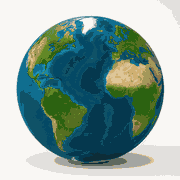
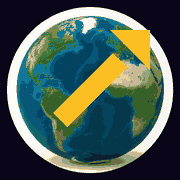
fix: restore infrastructure monitoring in FinancialCommand and sync package versions

diff --git a/src/components/Dashboard/FinancialCommand.tsx b/src/components/Dashboard/FinancialCommand.tsx
@@ -2,8 +2,9 @@
 
 import React from 'react';
 import { motion } from 'framer-motion';
-import { ShoppingBasket as Bucket, ShieldCheck, ArrowUpRight, TrendingUp, Calendar, CreditCard, AppWindow } from 'lucide-react';
+import { ShoppingBasket as Bucket, ShieldCheck, ArrowUpRight, TrendingUp, Calendar, CreditCard, AppWindow, Cpu, Zap, Activity } from 'lucide-react';
 import { cn } from '@/lib/utils';
+import { infrastructureService, InfrastructureBalance } from '@/lib/api-service';
 
 interface FinancialCommandProps {
   withholdableEarnings?: number;
@@ -18,6 +19,16 @@ export function FinancialCommand({
   growthScore = 92,
   businessId = "1"
 }: Partial<FinancialCommandProps>) {
+  const [infraBalances, setInfraBalances] = React.useState<InfrastructureBalance[]>([]);
+  
+  React.useEffect(() => {
+    const loadInfra = async () => {
+      const bals = await infrastructureService.getBalances();
+      setInfraBalances(bals);
+    };
+    loadInfra();
+  }, []);
+
   const formatCurrency = (cents: number) => {
     return `$${(cents / 100).toLocaleString(undefined, { minimumFractionDigits: 2 })}`;
   };
@@ -67,6 +78,38 @@ export function FinancialCommand({
             </div>
           </div>
         </div>
+
+        {/* Infrastructure Monitor */}
+        {infraBalances.length > 0 && (
+          <div className="space-y-4">
+            <div className="flex items-center gap-2 text-primary font-black text-[10px] uppercase tracking-widest">
+              <Cpu className="w-3 h-3" />
+              System Infrastructure Balances
+            </div>
+            <div className="grid grid-cols-2 md:grid-cols-4 gap-4">
+              {infraBalances.map((item, i) => (
+                <div key={i} className="p-4 bg-theme-background border border-theme rounded-2xl space-y-2">
+                  <div className="flex items-center justify-between">
+                    <span className="text-[8px] font-black uppercase text-muted-foreground">{item.platform}</span>
+                    {item.status === 'low' && <Zap className="w-3 h-3 text-amber-500 animate-pulse" />}
+                  </div>
+                  <p className={cn(
+                    "text-lg font-black tracking-tighter italic",
+                    item.status === 'low' ? "text-amber-500" : "text-foreground"
+                  )}>
+                    ${item.balance.toFixed(2)}
+                  </p>
+                  <div className="w-full bg-slate-800 h-1 rounded-full overflow-hidden">
+                    <div 
+                      className={cn("h-full", item.status === 'low' ? "bg-amber-500" : "bg-primary")} 
+                      style={{ width: `${Math.min(100, (item.balance / 50) * 100)}%` }} 
+                    />
+                  </div>
+                </div>
+              ))}
+            </div>
+          </div>
+        )}
 
         {/* Breakdown Sections */}
         <div className="grid grid-cols-1 md:grid-cols-2 gap-10">

diff --git a/src/lib/api-service.ts b/src/lib/api-service.ts
@@ -211,6 +211,13 @@ export const socialProofService = {
   }
 };
 
+export interface InfrastructureBalance {
+  platform: string;
+  balance: number;
+  currency: string;
+  status: 'active' | 'low' | 'depleted' | 'unknown';
+}
+
 export const discoveryService = {
   async getPendingResults(): Promise<DiscoveryResult[]> {
     try {
@@ -231,6 +238,18 @@ export const discoveryService = {
   },
   async approveResult(id: string): Promise<boolean> { return true; },
   async rejectResult(id: string): Promise<boolean> { return true; }
+};
+
+export const infrastructureService = {
+  async getBalances(): Promise<InfrastructureBalance[]> {
+    try {
+      const res = await fetch(`${API_URL}/api/revenue/infrastructure`, { headers: HEADERS });
+      if (res.ok) return await res.json();
+    } catch (e) {
+      console.error('Failed to fetch infrastructure balances', e);
+    }
+    return [];
+  }
 };
 
 export interface DesignTask {

diff --git a/src/app/layout.tsx b/src/app/layout.tsx
@@ -32,12 +32,12 @@ export default function RootLayout({
           html, body { background-color: #0a0519 !important; }
         `}</style>
         <link rel="canonical" href="https://empire-launch-ai-frontend.vercel.app" />
-        <link rel="manifest" href="/manifest.json?v=1016" />
-        <link rel="apple-touch-icon" href="/apple-touch-icon.png?v=16" />
-        <link rel="icon" href="/favicon.ico?v=16" />
-        <link rel="apple-touch-startup-image" href="/apple-touch-icon.png?v=16" />
-        <link rel="icon" type="image/png" sizes="192x192" href="/icon-192.png?v=16" />
-        <link rel="icon" type="image/png" sizes="512x512" href="/icon-512.png?v=16" />
+        <link rel="manifest" href="/manifest.json?v=1017" />
+        <link rel="apple-touch-icon" href="/apple-touch-icon.png?v=17" />
+        <link rel="icon" href="/favicon.ico?v=17" />
+        <link rel="apple-touch-startup-image" href="/apple-touch-icon.png?v=17" />
+        <link rel="icon" type="image/png" sizes="192x192" href="/icon-192.png?v=17" />
+        <link rel="icon" type="image/png" sizes="512x512" href="/icon-512.png?v=17" />
         <meta name="apple-mobile-web-app-capable" content="yes" />
         <meta name="apple-mobile-web-app-status-bar-style" content="black-translucent" />
         <meta name="mobile-web-app-capable" content="yes" />

diff --git a/src/components/BrandedGlobe.tsx b/src/components/BrandedGlobe.tsx
@@ -51,7 +51,7 @@ export function BrandedGlobe({ className, size = 'md', animate = true, spinning 
   return (
     <motion.div
       className={cn(
-        "rounded-full flex items-center justify-center bg-white relative shrink-0 overflow-hidden",
+        "rounded-full flex items-center justify-center bg-transparent relative shrink-0 overflow-hidden",
         sizeClasses[size],
         className
       )}